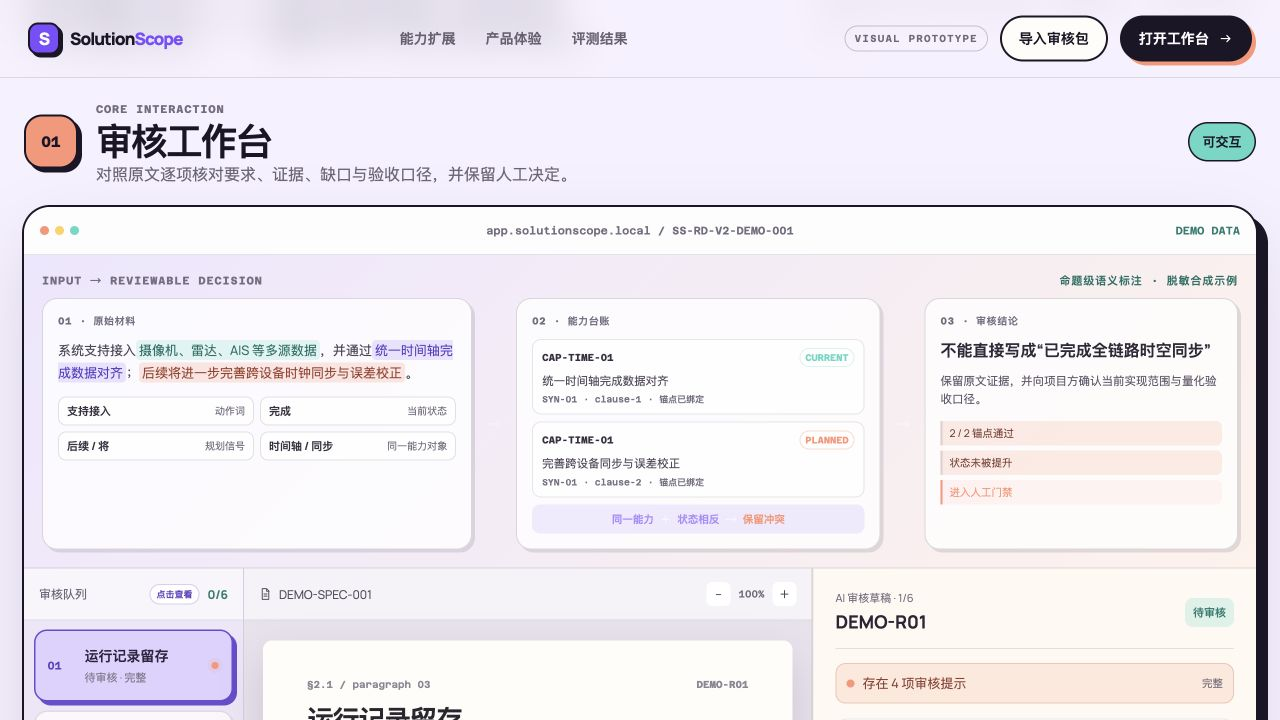
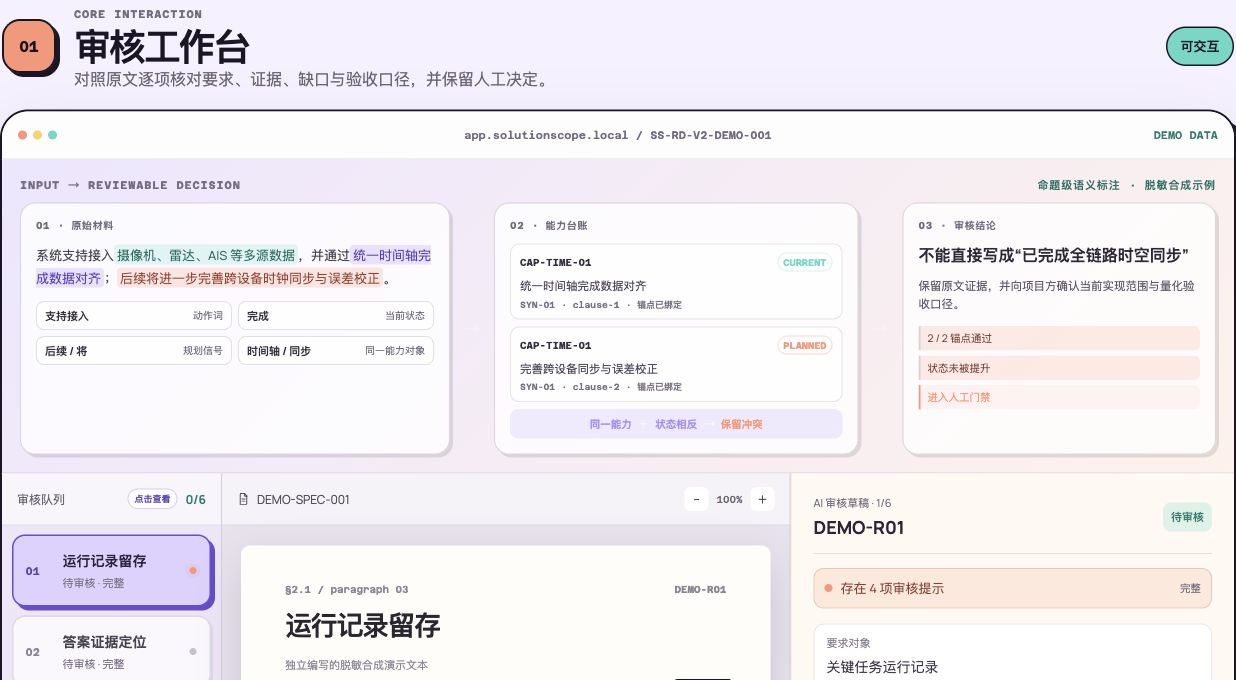
docs: refresh complete product walkthrough

diff --git a/demo/app.js b/demo/app.js
@@ -110,7 +110,7 @@ function nav() {
         <span class="logo-mark">S</span><span>Solution<em>Scope</em></span>
       </a>
       <nav class="nav-links" aria-label="主导航">
-        <a href="#rag-boundary">与 RAG 的区别</a><a href="#product">产品体验</a><a href="#evaluation">评测结果</a>
+        <a href="#rag-boundary">能力扩展</a><a href="#product">产品体验</a><a href="#evaluation">评测结果</a>
       </nav>
       <div class="nav-actions">
         <span class="prototype-badge">VISUAL PROTOTYPE</span>
@@ -123,8 +123,8 @@ function hero() {
   return `
     <section class="hero" id="top">
       <div class="hero-blob blob-coral"></div><div class="hero-blob blob-violet"></div><div class="hero-blob blob-mint"></div>
-      <div class="sticker sticker-left">不是更长的 Prompt</div>
-      <div class="sticker sticker-right">是更清楚的边界 ✦</div>
+      <div class="sticker sticker-left">证据先行</div>
+      <div class="sticker sticker-right">边界清楚 ✦</div>
       <div class="hero-content reveal">
         <span class="eyebrow">AI PRODUCT LAB · CONTROLLED WORKFLOW</span>
         <h1>复杂材料，<span class="purple-block">拆开看。</span><br/>关键判断，<span class="mint-block">有据可查。</span></h1>
@@ -142,7 +142,7 @@ function hero() {
 
 function ragBoundaryStory() {
   return `
-    <section class="rag-boundary-demo rag-boundary-lead" id="rag-boundary" aria-label="SolutionScope 相对普通 RAG 扩展的能力边界">
+    <section class="rag-boundary-demo rag-boundary-lead" id="rag-boundary" aria-label="SolutionScope 从检索回答扩展到逐项审核的能力">
       <div class="rag-boundary-heading">
         <span class="eyebrow">REQUIREMENT ASSURANCE · BEYOND KNOWLEDGE Q&amp;A</span>
         <h2>把技术要求，转化为<br/>可执行、可追溯的审核规则。</h2>
@@ -165,6 +165,57 @@ function ragBoundaryStory() {
         </article>
       </div>
 
+      <div class="boundary-case-heading">
+        <span class="eyebrow">ONE SCENARIO · THREE SOURCE ROLES · ONE REVIEW STATE</span>
+        <h3>同样三段相关文字，为什么不能直接得出“可以验收”？</h3>
+        <p>关键不在于能否检索到内容，而在于能否区分要求、当前承诺与验收阈值，并按照同一套规则逐项处理。</p>
+      </div>
+
+      <div class="rag-source-triplet" aria-label="感知方案验收案例的三类材料">
+        <article class="rag-source-card source-requirement">
+          <span>要求材料</span><small>REQUIREMENT</small>
+          <strong>识别率 ≥ 92%<br/>感知时延 ≤ 600ms</strong>
+          <p>低能见度条件下的最低能力要求，属于必须满足的硬约束。</p>
+        </article>
+        <article class="rag-source-card source-solution">
+          <span>方案材料</span><small>SOLUTION</small>
+          <strong>当前 90%<br/>后续优化至 92%</strong>
+          <p>仅说明支持记录输入、输出时间戳；没有承诺实际时延已经达标。</p>
+        </article>
+        <article class="rag-source-card source-verification">
+          <span>验收材料</span><small>VERIFICATION</small>
+          <strong>识别率 ≥ 92%<br/>时延 ≤ 0.6s</strong>
+          <p>给出测试通过口径，但验收阈值本身不能反向证明方案能力已具备。</p>
+        </article>
+      </div>
+
+      <div class="decision-compare" aria-label="普通检索回答与 SolutionScope 审核结果对比">
+        <article class="decision-card decision-rag">
+          <div><span>普通检索式回答</span><small>ONE-PASS JUDGEMENT</small></div>
+          <h3>三份材料均提到识别与时延，<br/>可能概括为“基本具备验收条件”。</h3>
+          <p>相关内容被组织成了完整答案，但“验收标准”“规划能力”和“当前能力”可能相互补全。</p>
+          <b>产出：一次性的概率判断</b>
+        </article>
+        <div class="decision-arrow">→</div>
+        <article class="decision-card decision-scope">
+          <div><span>SolutionScope 审核状态</span><small>REVIEW &amp; GATE</small></div>
+          <h3><code>90% &lt; 92%</code> → 识别率阻断<br/>仅有时间戳 → 时延仍待证明</h3>
+          <p>系统分别核对当前能力、规划能力和验收口径；“能测量”不等于“已达标”。</p>
+          <b>产出：阻断原因、补充任务与人工确认项</b>
+        </article>
+      </div>
+
+      <div class="decision-roles" aria-label="模型、程序与人工的职责边界">
+        <article><i>${icon("search")}</i><div><span>MODEL</span><b>理解并结构化</b><p>提取对象、状态、指标和来源角色，不直接决定最终放行。</p></div></article>
+        <article><i>${icon("route")}</i><div><span>PROGRAM</span><b>执行确定性门禁</b><p>统一 0.6s 与 600ms，比较上下限，并按审核阶段应用规则。</p></div></article>
+        <article><i>${icon("shield")}</i><div><span>HUMAN</span><b>确认真实口径</b><p>确认 90% 是原型结果还是最终交付结果，处理材料无法裁决的问题。</p></div></article>
+      </div>
+
+      <div class="boundary-change-strip">
+        <div><span>VERSION CHANGE</span><b>当要求从 92% 提高到 95%</b></div>
+        <p>冻结旧结论 → 找出受影响的方案承诺与验收阈值 → 生成重新确认任务，而不是只重新回答一次。</p>
+      </div>
+
       <div class="boundary-capability-grid" aria-label="SolutionScope 扩展的四类能力">
         <article><span>01</span><b>要求原子化</b><p>拆出对象、动作、条件、指标和验收方式，形成能够逐项核对的审核单元。</p></article>
         <article><span>02</span><b>三方覆盖关系</b><p>建立需求、方案与验收的对应关系，识别“材料提到了，但方案没有满足”。</p></article>
@@ -174,13 +225,13 @@ function ragBoundaryStory() {
 
       <div class="boundary-proof-strip">
         <article class="boundary-audit-record">
-          <div class="boundary-record-head"><span>覆盖判断示例 · 需求—方案—验收逐项核对</span><b>BLOCKED</b></div>
+          <div class="boundary-record-head"><span>最终审核输出 · 感知方案是否具备验收条件</span><b>BLOCKED</b></div>
           <dl>
-            <div><dt>需求要求</dt><dd>目标识别需达到明确的最低指标</dd><small>存在硬约束</small></div>
-            <div><dt>方案承诺</dt><dd>仅说明支持目标识别，未承诺最低指标</dd><small>覆盖不足</small></div>
-            <div><dt>验收方法</dt><dd>测试计划已设置指标与通过口径</dd><small>方法可执行</small></div>
-            <div class="boundary-record-result"><dt>审核结论</dt><dd>相关材料均已找到，但方案覆盖仍不成立</dd><small>阻断放行</small></div>
-            <div><dt>下一动作</dt><dd>补充方案指标承诺及适用条件后重新核对</dd><small>进入复核</small></div>
+            <div><dt>识别率</dt><dd>当前 90%，低于 92% 的最低要求</dd><small>方案未覆盖</small></div>
+            <div><dt>感知时延</dt><dd>验收方法存在，但方案缺少 ≤600ms 的能力证据</dd><small>承诺缺失</small></div>
+            <div><dt>阶段判断</dt><dd>“后续优化至 92%”可作为规划，不可作为验收阶段的当前能力</dd><small>状态已区分</small></div>
+            <div class="boundary-record-result"><dt>审核结论</dt><dd>当前不能进入验收</dd><small>阻断放行</small></div>
+            <div><dt>补充任务</dt><dd>更新方案指标、补充时延测试结果，并确认 90% 的结果属性</dd><small>转人工复核</small></div>
           </dl>
         </article>
       </div>
@@ -425,7 +476,7 @@ function productDemo() {
   return `
     <section class="product-section" id="product">
       ${scenarioIntro()}
-      <div class="section-heading reveal"><div><span class="eyebrow">LIVE PRODUCT PREVIEW</span><h2>下面不是一张效果图，<br/>是一段完整的审核体验。</h2></div><p>这里使用合成内容演示信息层级与交互，不读取真实项目材料，也不调用任何模型。</p></div>
+      <div class="section-heading reveal"><div><span class="eyebrow">LIVE PRODUCT PREVIEW</span><h2>从原文核对到放行判断，<br/>完整走一遍审核流程。</h2></div><p>使用脱敏合成内容演示证据定位、覆盖判断、人工复核与报告输出。</p></div>
       <div class="demo-stack">
         <section class="demo-block demo-block-review reveal" id="review-workbench">
           <div class="demo-block-heading"><span class="demo-block-index">01</span><div><small>CORE INTERACTION</small><h3>审核工作台</h3><p>对照原文逐项核对要求、证据、缺口与验收口径，并保留人工决定。</p></div><b>可交互</b></div>
@@ -474,7 +525,7 @@ function workflowStory() {
 function evaluationStory() {
   return `
     <section class="evaluation-section" id="evaluation">
-      <div class="evaluation-copy reveal"><span class="eyebrow">MODEL EVALUATION</span><h2>提升来自流程约束，<br/>不是模型突然变聪明。</h2><p>在两份 492 页与 733 页的公开标准上，使用相同轻量模型和相同案例进行开发集对照：受控工作流让模型先建立覆盖清单、再逐项回答，主要减少关键要求与评估对象被摘要压缩的问题；数值达标、状态冲突和最终放行则由独立门禁处理。</p><button class="button button-dark js-open-pane" data-scroll-target="evaluation-report">打开评测报告 ${icon("chart")}</button></div>
+      <div class="evaluation-copy reveal"><span class="eyebrow">MODEL EVALUATION</span><h2>受控工作流，<br/>减少长材料中的关键遗漏。</h2><p>在两份 492 页与 733 页的公开标准上，使用相同轻量模型和相同案例进行开发集对照：先建立证据规划和覆盖清单，再逐项回答；关键标识、评估目标和评估方法召回均获得提升，同时保持证据绑定与验收边界判断。</p><button class="button button-dark js-open-pane" data-scroll-target="evaluation-report">打开评测报告 ${icon("chart")}</button></div>
       <div class="evaluation-visual reveal">
         <div class="eval-header"><span>FROZEN DEVELOPMENT PILOT</span><b>gpt-5.4-mini / low · n=6</b></div>
         <div class="metric-compare-list">
@@ -588,3 +639,9 @@ function observeReveals() {
 }
 
 render();
+
+// Static capture mode for README screenshots. It removes only navigation chrome;
+// the normal product page remains unchanged when the query parameter is absent.
+if (new URLSearchParams(window.location.search).get("capture") === "readme") {
+  document.body.classList.add("readme-capture");
+}

diff --git a/docs/app.js b/docs/app.js
@@ -165,6 +165,57 @@ function ragBoundaryStory() {
         </article>
       </div>
 
+      <div class="boundary-case-heading">
+        <span class="eyebrow">ONE SCENARIO · THREE SOURCE ROLES · ONE REVIEW STATE</span>
+        <h3>同样三段相关文字，为什么不能直接得出“可以验收”？</h3>
+        <p>关键不在于能否检索到内容，而在于能否区分要求、当前承诺与验收阈值，并按照同一套规则逐项处理。</p>
+      </div>
+
+      <div class="rag-source-triplet" aria-label="感知方案验收案例的三类材料">
+        <article class="rag-source-card source-requirement">
+          <span>要求材料</span><small>REQUIREMENT</small>
+          <strong>识别率 ≥ 92%<br/>感知时延 ≤ 600ms</strong>
+          <p>低能见度条件下的最低能力要求，属于必须满足的硬约束。</p>
+        </article>
+        <article class="rag-source-card source-solution">
+          <span>方案材料</span><small>SOLUTION</small>
+          <strong>当前 90%<br/>后续优化至 92%</strong>
+          <p>仅说明支持记录输入、输出时间戳；没有承诺实际时延已经达标。</p>
+        </article>
+        <article class="rag-source-card source-verification">
+          <span>验收材料</span><small>VERIFICATION</small>
+          <strong>识别率 ≥ 92%<br/>时延 ≤ 0.6s</strong>
+          <p>给出测试通过口径，但验收阈值本身不能反向证明方案能力已具备。</p>
+        </article>
+      </div>
+
+      <div class="decision-compare" aria-label="普通检索回答与 SolutionScope 审核结果对比">
+        <article class="decision-card decision-rag">
+          <div><span>普通检索式回答</span><small>ONE-PASS JUDGEMENT</small></div>
+          <h3>三份材料均提到识别与时延，<br/>可能概括为“基本具备验收条件”。</h3>
+          <p>相关内容被组织成了完整答案，但“验收标准”“规划能力”和“当前能力”可能相互补全。</p>
+          <b>产出：一次性的概率判断</b>
+        </article>
+        <div class="decision-arrow">→</div>
+        <article class="decision-card decision-scope">
+          <div><span>SolutionScope 审核状态</span><small>REVIEW &amp; GATE</small></div>
+          <h3><code>90% &lt; 92%</code> → 识别率阻断<br/>仅有时间戳 → 时延仍待证明</h3>
+          <p>系统分别核对当前能力、规划能力和验收口径；“能测量”不等于“已达标”。</p>
+          <b>产出：阻断原因、补充任务与人工确认项</b>
+        </article>
+      </div>
+
+      <div class="decision-roles" aria-label="模型、程序与人工的职责边界">
+        <article><i>${icon("search")}</i><div><span>MODEL</span><b>理解并结构化</b><p>提取对象、状态、指标和来源角色，不直接决定最终放行。</p></div></article>
+        <article><i>${icon("route")}</i><div><span>PROGRAM</span><b>执行确定性门禁</b><p>统一 0.6s 与 600ms，比较上下限，并按审核阶段应用规则。</p></div></article>
+        <article><i>${icon("shield")}</i><div><span>HUMAN</span><b>确认真实口径</b><p>确认 90% 是原型结果还是最终交付结果，处理材料无法裁决的问题。</p></div></article>
+      </div>
+
+      <div class="boundary-change-strip">
+        <div><span>VERSION CHANGE</span><b>当要求从 92% 提高到 95%</b></div>
+        <p>冻结旧结论 → 找出受影响的方案承诺与验收阈值 → 生成重新确认任务，而不是只重新回答一次。</p>
+      </div>
+
       <div class="boundary-capability-grid" aria-label="SolutionScope 扩展的四类能力">
         <article><span>01</span><b>要求原子化</b><p>拆出对象、动作、条件、指标和验收方式，形成能够逐项核对的审核单元。</p></article>
         <article><span>02</span><b>三方覆盖关系</b><p>建立需求、方案与验收的对应关系，识别“材料提到了，但方案没有满足”。</p></article>
@@ -174,13 +225,13 @@ function ragBoundaryStory() {
 
       <div class="boundary-proof-strip">
         <article class="boundary-audit-record">
-          <div class="boundary-record-head"><span>覆盖判断示例 · 需求—方案—验收逐项核对</span><b>BLOCKED</b></div>
+          <div class="boundary-record-head"><span>最终审核输出 · 感知方案是否具备验收条件</span><b>BLOCKED</b></div>
           <dl>
-            <div><dt>需求要求</dt><dd>目标识别需达到明确的最低指标</dd><small>存在硬约束</small></div>
-            <div><dt>方案承诺</dt><dd>仅说明支持目标识别，未承诺最低指标</dd><small>覆盖不足</small></div>
-            <div><dt>验收方法</dt><dd>测试计划已设置指标与通过口径</dd><small>方法可执行</small></div>
-            <div class="boundary-record-result"><dt>审核结论</dt><dd>相关材料均已找到，但方案覆盖仍不成立</dd><small>阻断放行</small></div>
-            <div><dt>下一动作</dt><dd>补充方案指标承诺及适用条件后重新核对</dd><small>进入复核</small></div>
+            <div><dt>识别率</dt><dd>当前 90%，低于 92% 的最低要求</dd><small>方案未覆盖</small></div>
+            <div><dt>感知时延</dt><dd>验收方法存在，但方案缺少 ≤600ms 的能力证据</dd><small>承诺缺失</small></div>
+            <div><dt>阶段判断</dt><dd>“后续优化至 92%”可作为规划，不可作为验收阶段的当前能力</dd><small>状态已区分</small></div>
+            <div class="boundary-record-result"><dt>审核结论</dt><dd>当前不能进入验收</dd><small>阻断放行</small></div>
+            <div><dt>补充任务</dt><dd>更新方案指标、补充时延测试结果，并确认 90% 的结果属性</dd><small>转人工复核</small></div>
           </dl>
         </article>
       </div>
@@ -588,3 +639,9 @@ function observeReveals() {
 }
 
 render();
+
+// Static capture mode for README screenshots. It removes only navigation chrome;
+// the normal product page remains unchanged when the query parameter is absent.
+if (new URLSearchParams(window.location.search).get("capture") === "readme") {
+  document.body.classList.add("readme-capture");
+}

diff --git a/demo/styles.css b/demo/styles.css
@@ -131,6 +131,10 @@ svg { width: 1.08em; height: 1.08em; fill: none; stroke: currentColor; stroke-wi
 .boundary-expansion-arrow { align-self: center; display: grid; justify-items: center; gap: 14px; color: var(--violet); }
 .boundary-expansion-arrow span { max-width: 82px; font-size: 13px; line-height: 1.25; text-align: center; font-weight: 900; }
 .boundary-expansion-arrow b { width: 58px; height: 58px; display: grid; place-items: center; color: var(--ink); border: var(--border); border-radius: 50%; background: var(--mint); box-shadow: 4px 4px 0 var(--ink); font-size: 28px; }
+.boundary-case-heading { margin-top: 58px; display: grid; grid-template-columns: minmax(0,1.12fr) minmax(340px,.88fr); align-items: end; gap: 42px; padding-top: 34px; border-top: 1.5px solid rgba(27,22,38,.2); }
+.boundary-case-heading .eyebrow { grid-column: 1/-1; }
+.boundary-case-heading h3 { margin: -18px 0 0; font-size: clamp(36px,4.35vw,64px); line-height: .98; letter-spacing: -.06em; }
+.boundary-case-heading p { margin: 0; color: var(--muted); font-size: 17px; line-height: 1.7; }
 .boundary-capability-grid { margin-top: 28px; display: grid; grid-template-columns: repeat(4,minmax(0,1fr)); gap: 13px; }
 .boundary-capability-grid article { min-height: 230px; padding: 22px; display: flex; flex-direction: column; border: 1.7px solid var(--ink); border-radius: 20px; box-shadow: 4px 4px 0 var(--ink); background: var(--white); }
 .boundary-capability-grid article:nth-child(1) { color: #fff; background: #55515e; }
@@ -192,6 +196,10 @@ svg { width: 1.08em; height: 1.08em; fill: none; stroke: currentColor; stroke-wi
 .decision-roles span { display: block; color: #7a7082; font: 700 9px/1.2 "Azeret Mono", monospace; letter-spacing: .09em; }
 .decision-roles b { display: block; margin-top: 5px; font-size: 18px; }
 .decision-roles p { margin: 8px 0 0; color: var(--muted); font-size: 14px; line-height: 1.52; }
+.boundary-change-strip { margin-top: 20px; padding: 22px 24px; display: grid; grid-template-columns: minmax(260px,.68fr) minmax(0,1.32fr); align-items: center; gap: 26px; border: 1.7px solid var(--ink); border-radius: 18px; background: var(--yellow); box-shadow: 4px 4px 0 var(--ink); }
+.boundary-change-strip div span { display: block; color: rgba(27,22,38,.58); font: 800 9px/1.2 "Azeret Mono", monospace; letter-spacing: .09em; }
+.boundary-change-strip div b { display: block; margin-top: 6px; font-size: 20px; }
+.boundary-change-strip p { margin: 0; font-size: 15px; line-height: 1.62; }
 .section-heading { margin-bottom: 46px; display: grid; grid-template-columns: 1.25fr .75fr; align-items: end; gap: 60px; }
 .section-heading h2, .story-main h2, .evaluation-copy h2 { margin: 12px 0 0; font-size: clamp(44px, 5vw, 72px); line-height: .98; letter-spacing: -.065em; }
 .section-heading p { margin: 0; color: var(--muted); font-size: 14px; line-height: 1.8; }
@@ -604,6 +612,8 @@ svg { width: 1.08em; height: 1.08em; fill: none; stroke: currentColor; stroke-wi
   .boundary-expansion-arrow b { transform: rotate(90deg); }
   .boundary-capability-grid { grid-template-columns: repeat(2,minmax(0,1fr)); }
   .rag-source-triplet, .decision-roles { grid-template-columns: 1fr; }
+  .boundary-case-heading, .boundary-change-strip { grid-template-columns: 1fr; }
+  .boundary-case-heading h3 { margin-top: -10px; }
   .rag-source-card { min-height: 174px; }
   .workspace-grid { grid-template-columns: 190px minmax(0,1fr); }
   .review-panel { grid-column: 1/-1; border-top: 1px solid rgba(32,26,46,.1); border-left: 0; }
@@ -659,6 +669,14 @@ svg { width: 1.08em; height: 1.08em; fill: none; stroke: currentColor; stroke-wi
 .footer p { font-size: 13px; }
 .footer > span { font-size: 9px; }
 .prototype-toast { font-size: 13px; }
+
+/* README capture mode: preserve the product UI while removing sticky browser-like chrome. */
+.readme-capture .topbar,
+.readme-capture .prototype-toast,
+.readme-capture #codex-browser-sidebar-comments-root { display: none !important; }
+.readme-capture .reveal { opacity: 1 !important; transform: none !important; }
+body.readme-capture { scrollbar-width: none; }
+body.readme-capture::-webkit-scrollbar { display: none; }
 
 @media (max-width: 760px) {
   .hero-content > p { font-size: 16px; }

diff --git a/docs/styles.css b/docs/styles.css
@@ -131,6 +131,10 @@ svg { width: 1.08em; height: 1.08em; fill: none; stroke: currentColor; stroke-wi
 .boundary-expansion-arrow { align-self: center; display: grid; justify-items: center; gap: 14px; color: var(--violet); }
 .boundary-expansion-arrow span { max-width: 82px; font-size: 13px; line-height: 1.25; text-align: center; font-weight: 900; }
 .boundary-expansion-arrow b { width: 58px; height: 58px; display: grid; place-items: center; color: var(--ink); border: var(--border); border-radius: 50%; background: var(--mint); box-shadow: 4px 4px 0 var(--ink); font-size: 28px; }
+.boundary-case-heading { margin-top: 58px; display: grid; grid-template-columns: minmax(0,1.12fr) minmax(340px,.88fr); align-items: end; gap: 42px; padding-top: 34px; border-top: 1.5px solid rgba(27,22,38,.2); }
+.boundary-case-heading .eyebrow { grid-column: 1/-1; }
+.boundary-case-heading h3 { margin: -18px 0 0; font-size: clamp(36px,4.35vw,64px); line-height: .98; letter-spacing: -.06em; }
+.boundary-case-heading p { margin: 0; color: var(--muted); font-size: 17px; line-height: 1.7; }
 .boundary-capability-grid { margin-top: 28px; display: grid; grid-template-columns: repeat(4,minmax(0,1fr)); gap: 13px; }
 .boundary-capability-grid article { min-height: 230px; padding: 22px; display: flex; flex-direction: column; border: 1.7px solid var(--ink); border-radius: 20px; box-shadow: 4px 4px 0 var(--ink); background: var(--white); }
 .boundary-capability-grid article:nth-child(1) { color: #fff; background: #55515e; }
@@ -192,6 +196,10 @@ svg { width: 1.08em; height: 1.08em; fill: none; stroke: currentColor; stroke-wi
 .decision-roles span { display: block; color: #7a7082; font: 700 9px/1.2 "Azeret Mono", monospace; letter-spacing: .09em; }
 .decision-roles b { display: block; margin-top: 5px; font-size: 18px; }
 .decision-roles p { margin: 8px 0 0; color: var(--muted); font-size: 14px; line-height: 1.52; }
+.boundary-change-strip { margin-top: 20px; padding: 22px 24px; display: grid; grid-template-columns: minmax(260px,.68fr) minmax(0,1.32fr); align-items: center; gap: 26px; border: 1.7px solid var(--ink); border-radius: 18px; background: var(--yellow); box-shadow: 4px 4px 0 var(--ink); }
+.boundary-change-strip div span { display: block; color: rgba(27,22,38,.58); font: 800 9px/1.2 "Azeret Mono", monospace; letter-spacing: .09em; }
+.boundary-change-strip div b { display: block; margin-top: 6px; font-size: 20px; }
+.boundary-change-strip p { margin: 0; font-size: 15px; line-height: 1.62; }
 .section-heading { margin-bottom: 46px; display: grid; grid-template-columns: 1.25fr .75fr; align-items: end; gap: 60px; }
 .section-heading h2, .story-main h2, .evaluation-copy h2 { margin: 12px 0 0; font-size: clamp(44px, 5vw, 72px); line-height: .98; letter-spacing: -.065em; }
 .section-heading p { margin: 0; color: var(--muted); font-size: 14px; line-height: 1.8; }
@@ -604,6 +612,8 @@ svg { width: 1.08em; height: 1.08em; fill: none; stroke: currentColor; stroke-wi
   .boundary-expansion-arrow b { transform: rotate(90deg); }
   .boundary-capability-grid { grid-template-columns: repeat(2,minmax(0,1fr)); }
   .rag-source-triplet, .decision-roles { grid-template-columns: 1fr; }
+  .boundary-case-heading, .boundary-change-strip { grid-template-columns: 1fr; }
+  .boundary-case-heading h3 { margin-top: -10px; }
   .rag-source-card { min-height: 174px; }
   .workspace-grid { grid-template-columns: 190px minmax(0,1fr); }
   .review-panel { grid-column: 1/-1; border-top: 1px solid rgba(32,26,46,.1); border-left: 0; }
@@ -659,6 +669,14 @@ svg { width: 1.08em; height: 1.08em; fill: none; stroke: currentColor; stroke-wi
 .footer p { font-size: 13px; }
 .footer > span { font-size: 9px; }
 .prototype-toast { font-size: 13px; }
+
+/* README capture mode: preserve the product UI while removing sticky browser-like chrome. */
+.readme-capture .topbar,
+.readme-capture .prototype-toast,
+.readme-capture #codex-browser-sidebar-comments-root { display: none !important; }
+.readme-capture .reveal { opacity: 1 !important; transform: none !important; }
+body.readme-capture { scrollbar-width: none; }
+body.readme-capture::-webkit-scrollbar { display: none; }
 
 @media (max-width: 760px) {
   .hero-content > p { font-size: 16px; }
